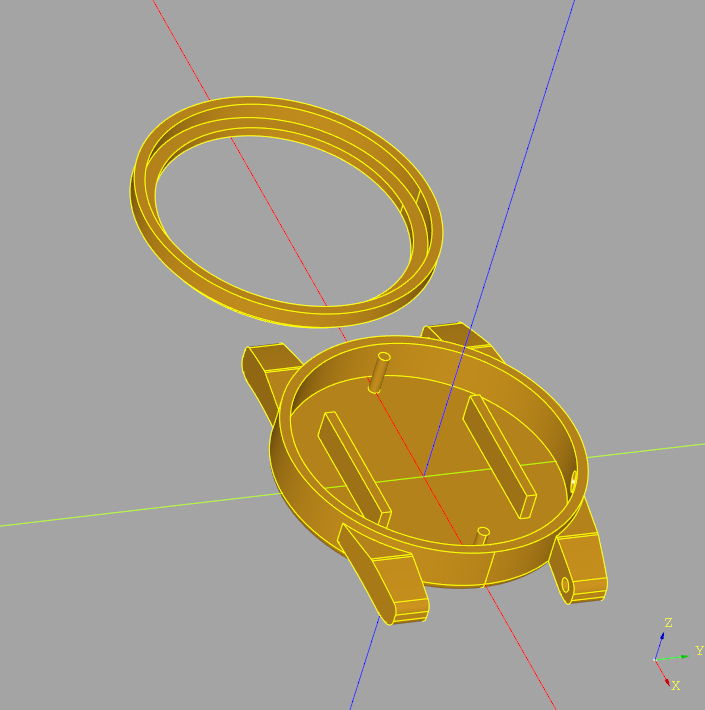
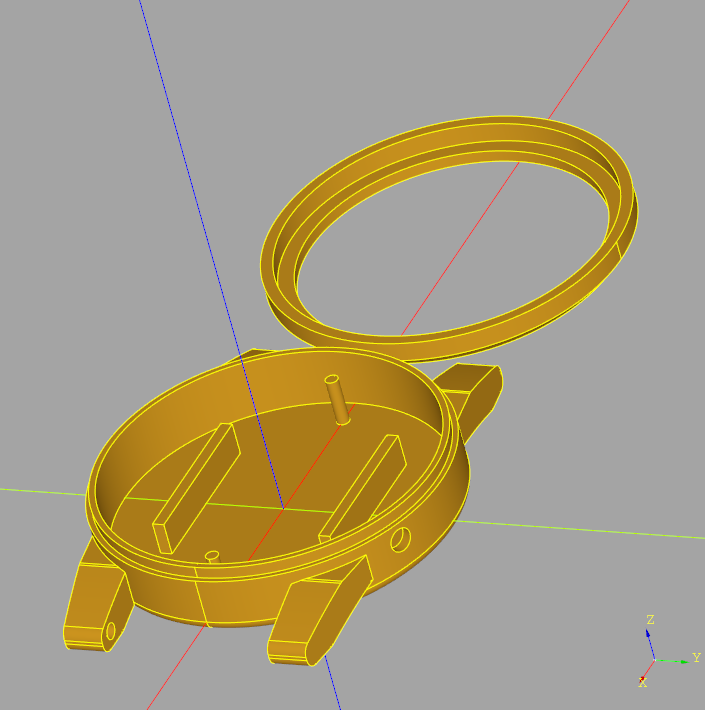
3d model with top-bottom connection

diff --git a/3dmodel/watch.py b/3dmodel/watch.py
@@ -1,20 +1,27 @@
 import cadquery as cq
 
 WALL = 1.5
-INNER_RADIUS = 20
+INNER_RADIUS = 21
 PCB_THICKNESS = 1.6
 BATTERY_HOLDER_HEIGHT = 4.5
 BATTERY_HOLDER_POSITION_1 = (17.5, 0)
 BATTERY_HOLDER_POSITION_2 = (-17.5, 0)
+BOTTOM_PART_HEIGHT = 6
 
 ### Watch Face ###
 body = cq.Workplane("XY" )\
-        .circle(INNER_RADIUS).extrude(6)\
+        .circle(INNER_RADIUS).extrude(BOTTOM_PART_HEIGHT)\
         .faces("+Z").shell(WALL, kind='arc')\
         .cut(cq.Workplane("XY").circle(1.5).extrude(10)\
-        .rotate((0, 0, 0),(-19, 10.5, 0), 90)\
-        .translate((10-3.5,19-3,3.7)))
+            .rotate((0, 0, 0),(-19, 10.5, 0), 90)\
+            .translate((10-3.5,19-3,3.7)))
 
+connection_shell = cq.Workplane("XY" )\
+        .circle(INNER_RADIUS).extrude(BOTTOM_PART_HEIGHT+1.5)\
+        .faces("+Z").shell(0.8, kind='arc')\
+        .cut(cq.Workplane("XY").circle(1.5).extrude(10)\
+            .rotate((0, 0, 0),(-19, 10.5, 0), 90)\
+            .translate((10-3.5,19-3,3.7)))
 
 battery_holder_left = cq.Workplane("XY" )\
         .box(20,1.5,BATTERY_HOLDER_HEIGHT)\
@@ -29,10 +36,10 @@ watchface_holder_2 = watchface_holder_1.mirror(mirrorPlane="YZ")
 
 ### LEGS ###
 leg_base = cq.Workplane("XY")\
-        .line(26.5, 0)\
+        .line(28.5, 0)\
         .line(0, 5)\
-        .line(-26.5, 4)\
-        .line(-26.5, -4)\
+        .line(-28.5, 4)\
+        .line(-28.5, -4)\
         .line(0, -5)\
         .close().extrude(6)
 cut1 = cq.Workplane("XY").circle(80).extrude(10).translate((0,-76.5,-10))\
@@ -41,7 +48,7 @@ cut2 = cq.Workplane("XY").circle(80).extrude(10).translate((0,-71.75,-10))\
              .rotate((0,0,0),(1,0,0),90)
 cut3_watch_base = cq.Workplane("XY").circle(WALL+INNER_RADIUS).extrude(10)
 cut4 = cq.Workplane("XY").circle(1).extrude(30)\
-                .translate((24,0.6,-15))\
+                .translate((26,0.4,-15))\
                 .rotate((0, 0, 0),(1, 0, 0), 90)
 cut5 = cut4.mirror(mirrorPlane="YZ")
 
@@ -56,6 +63,7 @@ right_leg = leg_base\
 left_leg = right_leg.mirror(mirrorPlane="XZ")
 
 result = body\
+            .union(connection_shell)\
             .union(right_leg)\
             .union(left_leg)\
             .union(battery_holder_left)\
